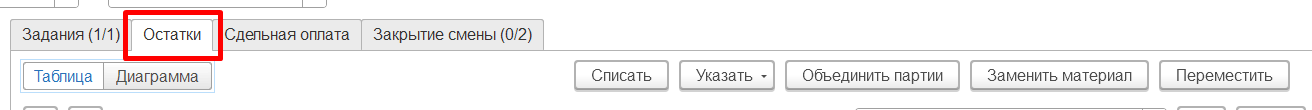
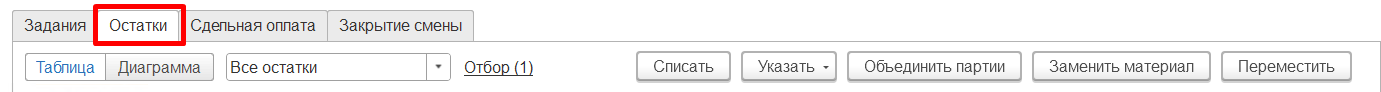
фикс: новый рммс

diff --git a/docs/Manufacture/CommonInformation/Functional/NewWorkPlaceOfShiftWizard/NewWorkPlaceOfShiftWizard.md b/docs/Manufacture/CommonInformation/Functional/NewWorkPlaceOfShiftWizard/NewWorkPlaceOfShiftWizard.md
@@ -1,134 +1,139 @@
-**Действия в Контроле результатов производства**
+**Контроль результатов производства**
 ==========================================
+Для обеспечения контроля за производственными процессами мастер смены активно участвует в операциях цеха. Поэтому было решено выделить отдельное рабочее место, где будут объединены все необходимые действия.
+В подсистеме **"Производство"** открываем **"Контроль результатов производства"**:
 
-В рабочем месте "Контроль результатов производства" присутствует довольно много операций, что объясняется вовлечением мастера смены во все процессы цеха. Потому и было решено все эти действия объединить в одном месте.
+![](NewWorkPlaceOfShiftWizard.assets/1%20image.png)
+
+<h2> Сценарии работы контроль результатов производства </h2>
+
+Сценарий работы контроль результатов производства используется для хранения настроек в АРМе "Контроль результатов производства". Данный справочник расположен в разделе **"Производство"** в подсистеме **"Учет производства"**.
+
+При создании сценария в справочнике заполняются:
+
+- Наименование;
+- Дата смены;
+- Признак *"Один мастер"* (если признак выключен, то необходимо выбрать конкретные РЦ для работы в АРМе);
+- Признак *"Отображать количественные показатели складов"*;
+- Признак *"Отображать приход и расход по складам"*.
+
+![](NewWorkPlaceOfShiftWizard.assets/4.png)
+
+После выбора сценария нажимаем кнопку **"Обновить"** и в табличной части ниже появится информация о рабочем участке и рабочих центрах, закрепленных за ним. Выбираем нужный вид рабочего центра, а затем рабочий центр:
+
+![](NewWorkPlaceOfShiftWizard.assets/5.png)
 
 <h2> Вкладка "Задания" </h2>
 
-![](NewWorkPlaceOfShiftWizard.assets/drex_dejstviya_v_rabochem_meste_mastera_smeny_custom_9.png)
+На вкладке "Задания" можно увидеть информацию о выпущенных продуктах за текущую смену.
+В табличной части указана номенклатура произведенных продуктов, количество, которое планировалось произвести, фактически произведенное количество и процент отклонения от плана.
 
-<h3> Открыть задание </h3>
+![](NewWorkPlaceOfShiftWizard.assets/6.png)
 
-Открывает ранее созданный документ "Производственное задание" на указанную смену и выбранный рабочий центр.
+<h3> Задание </h3>
 
-<h3> Создать задание </h3>
+![](NewWorkPlaceOfShiftWizard.assets/3.png)
 
-Открывает форму создание задания на указанную смену и выбранный рабочий центр.
+- *Открыть задание* - открывает ранее созданный документ **"Производственное задание"** на указанную смену и выбранный рабочий центр;
+
+- *Создать задание* - открывает форму создания задания на указанную смену и выбранный рабочий центр.
 
 <h3> Корректировка </h3>
 
 ![image-20200818085824546](NewWorkPlaceOfShiftWizard.assets/image-20200818085824546.png)
 
-- Откорректировать количество - позволяет внести правки в количество выпуска по выбранной партии в таблице "Выпуск";
-- Откорректировать номенклатуру - позволяет изменить вид продукции у выбранной в таблице "Выпуск" партии.
+- *Откорректировать количество* - позволяет внести правки в количество выпуска по выбранной партии в таблице "Выпуск";
+- *Откорректировать номенклатуру* - позволяет изменить вид продукции у выбранной партии в таблице "Выпуск".
 
 <h3> Перераспределить сырье </h3>
 
 В случае, если за смену были выпуски побочной продукции, на которую обычно не списывается основной ингредиент (Сыворотка, Обрат и тп), а на основные выпуски списание идет, этой кнопкой делается "минус" по расходу на основные выпуски и "плюс" по расходу на вторичные выпуски.  
-Распределение требует учтенных в системе показателей жира и белка по каждой партии выпуска и каждой партии основных материалов, т.к. разделение идет именно на основании этих показателей.
+*Распределение требует учтенных в системе показателей жира и белка по каждой партии выпуска и каждой партии основных материалов, т.к. разделение идет именно на основании этих показателей.*
 
 <h2> Вкладка "Остатки" </h2>
 
 ![](NewWorkPlaceOfShiftWizard.assets/drex_dejstviya_v_rabochem_meste_mastera_smeny_custom.png)
 
-На текущей вкладке можно смотреть приход/расход/остатки по полуфабрикатам, продукции, материалам и сырью.
+На текущей вкладке отображаются приход/расход/остатки по полуфабрикатам, продукции, материалам и сырью на складах РЦ.
 
-При этом, выбрав "Диаграмма", можно смотреть остатки в более наглядной форме. Такое обычно удобнее для участков, где происходит переработка "жидких" материалов.
+Выбрав вид отображения **"Диаграмма"**, можно смотреть остатки в более наглядной форме. Такое обычно удобнее для участков, где происходит переработка "жидких" материалов.
 
 <h3> Объединить партии </h3>
 
 Позволяет объединить несколько партий одной продукции в одну.  
-Применяется при выпуске производственной партии молока. На входе есть много партий от разных поставщиков, на выходе - одна партия (накопился танк сырого молока - берется контрольный анализ, и молоко переходит в производственную партию).
+Часто применяется при выпуске производственной партии молока. На входе есть много партий от разных поставщиков, на выходе - одна партия (накопился танк сырого молока - берется контрольный анализ, и молоко переходит в производственную партию).
 
-1. Выбрать партию (партии, склад) - нажать "Объединить партии",
-    подтвердить количество выхода (автоматически - сумма всех выделенных
-    партий).  
-![](NewWorkPlaceOfShiftWizard.assets/drex_dejstviya_v_rabochem_meste_mastera_smeny_custom_3.png)  
-2. Создается документ "Переработка", где в выпуске молоко с новой
-    партией, а в материалах - все партии, которые были выделены (или все
-    серии в танке, если позиционирование было на складе и если там была
-    одна номенклатура).
-
-В режиме диаграммы объединяются все партии склада, независимо от количества выделенных.
+1. Выбрать партию (партии, склад) - нажать **"Объединить партии"**, подтвердить количество выхода (автоматически - сумма всех выделенных партий).  
+![](NewWorkPlaceOfShiftWizard.assets/10.png)  
+2. Создается документ **"Переработка"**, где в выпуске молоко с новой партией, а в материалах - все партии, которые были выделены (или все серии в танке, если позиционирование было на складе и если там была одна номенклатура). *В режиме диаграммы объединяются все партии склада, независимо от количества выделенных.*
 
 <h3> Указать выпуск </h3>
 
-Позволяет указать на какой-либо из складов РЦ выпуск.   
-Предполагает учет выпусков сливок, смеси, обрата и других полуфабрикатов приемно-аппаратного цеха.
+Позволяет указать выпуск на какой-либо из складов РЦ.
 
-1. Выбрать в таблице склад выпуска - нажать "Указать выпуск". Указать,
-    что и в каком количестве выпускается. При этом можно выбрать один из
-    трех вариантов списания материалов для основных и дополнительных материалов (не распределять; по норме - указывается склад (склады), с которого берется основной материал (по спецификации); целиком по спецификации - все остатки (по рецептуре) на указанном складе (складах) будут списаны на этот выпуск).  
-![](NewWorkPlaceOfShiftWizard.assets/drex_dejstviya_v_rabochem_meste_mastera_smeny_custom_4.png)  
+1. Выбрать в таблице склад выпуска - нажать **"Указать выпуск"**. Указать, что и в каком количестве выпускается. При этом можно выбрать один из трех вариантов списания материалов для основных и дополнительных материалов:
+    1. не распределять;
+    2. по норме - указывается склад (склады), с которого берется основной материал (по спецификации);
+    3. целиком по спецификации - все остатки (по рецептуре) на указанном складе (складах) будут списаны на этот выпуск.  
+![](NewWorkPlaceOfShiftWizard.assets/11.png)  
 2. При этом, если выпускаемая продукция имеет одну единицу измерения (не литры), то количество можно получить, как сумму всех материалов по основной спецификации, чья единица измерения совпадает с единицей измерения выпуска.  
 ![](NewWorkPlaceOfShiftWizard.assets/2.png)  
-3. Если выпускаемая продукция принималась в литрах, то есть возможность использовать пересчет литров в килограммы указывая плотность жидкого сырья.
+3. Если выпускаемая продукция принималась в литрах, то есть возможность использовать пересчет литров в килограммы, указывая плотность жидкости (количество как сумма материалов недоступно).
 ![](NewWorkPlaceOfShiftWizard.assets/1.png)
-4. Создается документ "Переработка", где в выпуске указанная номенклатура и количество, материалы заполняются согласно указанным правилам и корректировкам.
+4. Создается документ **"Переработка"**, где в выпуске указанная номенклатура и количество, материалы заполняются согласно указанным правилам и корректировкам.
 
 <h3> Переместить </h3>
 
-Позволяет перемещать партии продукции между складами.  
-Предполагает учет передач сливок, обрата в другие цеха или склады цеха.
+Позволяет перемещать партии продукции между складами.
 
-1. Выбрать в таблице партию (партии) - нажать "Переместить". Указать
-    куда и сколько перемещается.  
-![](NewWorkPlaceOfShiftWizard.assets/drex_dejstviya_v_rabochem_meste_mastera_smeny_custom_5.png)  
-2. Создается документ "Распоряжение на перемещение".
+1. Выбрать в таблице партию (партии) - нажать **"Переместить"**.  
+![](NewWorkPlaceOfShiftWizard.assets/12.png)  
+2. Указать куда и сколько перемещается.
+
+3. Создается документ **"Распоряжение на перемещение"**.
 
 <h3> Списать </h3>
+Если за текущую смену физически был потрачен материал, а в системе числятся остатки на складе, следует списать остатки с отнесением на потери при производстве. Есть возможность выбора конкретных выпусков для распределения материала. В результате формируется документ **"Распределение материалов"**.
 
-Формируется документ "Распределение материалов".  
+![](NewWorkPlaceOfShiftWizard.assets/7.png)
 
-- **Согласно спецификации** - требует наличие выпуска по
-    спецификации, где выбранный остаток конфигурирует, как материал.
-    Списание идет на все выпуски, по которым выбранный остаток мог бы
-    быть потрачен.  
-    Например, есть пакет красный. С его использованием упаковывают
-    несколько варок сыра "Российский 3\\19", "Пошехонский 5\\19". В
-    каждой спецификации этот пакет указан в материалах. При
-    распределении этот пакет списывается и на Российский, и на
-    Пошехонский.  
-    -   Выбрать материал (и серию) - нажать "Списать". Указать вариант
-    списания "Согласно спецификации", если включена опция "Выбирать из выпуска"-выбрать конкретные выпуски для распределения, и указать списываемое количество.
+- **Согласно спецификации** - требует наличие выпуска по спецификации, где выбранный остаток конфигурирует, как материал. Списание идет на все выпуски, по которым выбранный остаток мог бы быть потрачен.  
+Например, есть пакет красный. С его использованием упаковывают несколько варок сыра "Российский 3\\19", "Пошехонский 5\\19". В каждой спецификации этот пакет указан в материалах. При распределении этот пакет списывается и на Российский, и на Пошехонский.  
+    -   Выбрать материал (и серию) - нажать **"Списать"**. Указать вариант списания "Согласно спецификации", если включена опция "Выбирать из выпуска"- выбрать конкретные выпуски для распределения, и указать списываемое количество.
 
-- **Пропорционально списанному** - требует наличие выпуска, где
-    материал, по которому есть остаток, уже был потрачен.
-    Например, так же пакеты красные. Потратились на упаковке на сыр
-    "Российский" и на сыр "Пошехонский". Но при этом, на пошехонский сыр
-    не стоит в спецификации. В варианте **a.** пакеты списались бы
-    только на российский сыр, а в текущем - на оба. 
-    -   Выбрать материал (и серию) - нажать "Списать". Указать вариант
-    списания "Пропорционально списанному".
+- **Пропорционально списанному** - требует наличие выпуска, где материал, по которому есть остаток, уже был потрачен.
+Например, так же пакеты красные. Потратились на упаковке на сыр "Российский" и на сыр "Пошехонский". Но при этом, на пошехонский сыр не стоит в спецификации. В варианте **a.** пакеты списались бы только на российский сыр, а в текущем - на оба. 
+    -   Выбрать материал (и серию) - нажать **"Списать"**. Указать вариант списания "Пропорционально списанному".
 
-- **По отраслевой методике** - не требует расхода материала, но
-    требует наличие выпусков, на которые этот материал может быть
-    потрачен. Также требует наличия анализов по жиру и белку.  
-    Списывается на все выпуски, пропорционально содержанию жира и белка
-    в них.  
-    Например, применяется на переделе, когда есть выпуски смесей, сливки
-    и обрат. Все молоко списывают на все выпуски согласно содержанию
-    жира и белка в них.  
-    -   Выбрать партию молока - нажать "Списать". Указать вариант списания
-    "По отраслевой методике", указать количество и, если включена опция "Выбирать из выпуска"-выбрать конкретные выпуски для распределения.
+- **По отраслевой методике** - не требует расхода материала, но требует наличие выпусков, на которые этот материал может быть потрачен. Также требует наличия анализов по жиру и белку. Списывается на выпуски, пропорционально содержанию жира и белка в них.  
+Например, применяется на переделе, когда есть выпуски смесей, сливки и обрат. Все молоко списывают на выпуски согласно содержанию жира и белка в них.  
+    -   Выбрать партию молока - нажать **"Списать"**. Указать вариант списания "По отраслевой методике", указать количество и, если включена опция "Выбирать из выпуска" - выбрать конкретные выпуски для распределения.
 
-- **Брак**- требует расхода материала. В текущем функционале виден
-    только для номенклатуры с типом "Короб" или "Пакет".  
-    Предполагает списание бракованных коробов или пакетов, выявленных в
-    процессе их использования за смену. Указанный материал списывается
-    со статьей брака на уже имеющиеся выпуски пропорционально
-    потраченному.
-    -   Выбрать короб или пакет (и серию) - нажать "Списать". Указать
-    вариант списания "Брак", указать количество и статью затрат для
-    брака.
+- **Брак**- требует расхода материала. В текущем функционале виден только для номенклатуры с типом "Короб" или "Пакет". Предполагает списание бракованных коробов или пакетов, выявленных в процессе их использования за смену. Указанный материал списывается со статьей брака на уже имеющиеся выпуски пропорционально потраченному.
+    -   Выбрать короб или пакет (и серию) - нажать **"Списать"**. Указать вариант списания "Брак", указать количество и статью затрат для брака.
 
-    ![image-20200818091735836](NewWorkPlaceOfShiftWizard.assets/image-20200818091735836.png)
-
+ 
 <h3> Заменить материал </h3>
 
 Требует наличие расхода заменяемого материала. Указанное количество заменяемого материала приходуется, а чем заменяем – расходуется на ту продукцию, на которую тратился заменяемый.  
-1. Перейти на вкладку "Остатки" -\> "Материалы" (или "Прочее"), найти
-    заменяемый материал (и его серию) - нажать "Заменить материал".
-    Указать, чем заменяется (и серию), количество для замены.  
-![image-20200818090413350](NewWorkPlaceOfShiftWizard.assets/image-20200818090413350.png)
-2. Формируется документ "Распределение материалов".
+
+1. Перейти на вкладку "Остатки" -\> "Материалы" (или "Прочее"), найти заменяемый материал (и его серию) - нажать **"Заменить материал"**.
+![image-20200818090413350](NewWorkPlaceOfShiftWizard.assets/13.png)
+2. Указать, чем заменяется (и серию), количество для замены.
+
+3. Создается документ **"Распределение материалов"**.
+
+<h2> Вкладка "Закрытие смены" </h2>
+
+Когда мастер смены удостоверился, что за текущую смену в систему введена корректная информация о выходах и остатках, следует закрыть смену на рабочем центре.
+
+Переходим к вкладке "Закрытие смены" и нажимаем кнопку **"Закрыть смену"**.
+
+![](NewWorkPlaceOfShiftWizard.assets/8.png)
+
+Откроется оповещение об успешном/не успешном закрытии смены.
+
+- Если при закрытии смены система выявит некорректные данные, статус смены в табличной части слева изменится на *"Есть ошибки"*. Также в заголовке вкладки "Остатки" отобразится наличие расхождений, а на вкладке "Закрытие смены" - количество успешных операций и информация о некорректных данных, которые не позволяют закрыть смену.
+- Если все данные за смену верны, статус смены на рабочем центре изменится на *"Закрыта"*.
+
+![](NewWorkPlaceOfShiftWizard.assets/9.png)

diff --git a/docs/Manufacture/Milk/Functional/readme.md b/docs/Manufacture/Milk/Functional/readme.md
@@ -4,7 +4,7 @@
 
 Для мастера смены доступно два варианта управления остатками:
 
-1. Указание выпуска и оперативное отражение расхода материала на них. В рамках такого варианта учета можно указывать выпуски без отражения расхода материалов, но только для выпусков побочной продукции (см. [Действия в Рабочем месте мастера смены](WorkPlaceOfShiftWizard/WorkPlaceOfShiftWizard.md) - Перераспределение сырья)
+1. Указание выпуска и оперативное отражение расхода материала на них. В рамках такого варианта учета можно указывать выпуски без отражения расхода материалов, но только для выпусков побочной продукции (см. [Действия в Рабочем месте мастера смены](../../CommonInformation/Functional/WorkPlaceOfShiftWizard/WorkPlaceOfShiftWizard.md) - Перераспределение сырья)
 
 2. Указание выпуска без отражения расхода материала. Распределение сырья и указание остатков выполняется в конце дня при закрытии смены.
 
@@ -12,4 +12,6 @@
 
 Функционал автоматизированного рабочего места для мастера смены:
 
-- [Действия в Рабочем месте мастера смены](WorkPlaceOfShiftWizard/WorkPlaceOfShiftWizard.md)
+- [Действия в Рабочем месте мастера смены](../../CommonInformation/Functional/WorkPlaceOfShiftWizard/WorkPlaceOfShiftWizard.md)
+
+- [Контроль результатов производства](../../CommonInformation/Functional/NewWorkPlaceOfShiftWizard/NewWorkPlaceOfShiftWizard.md)
